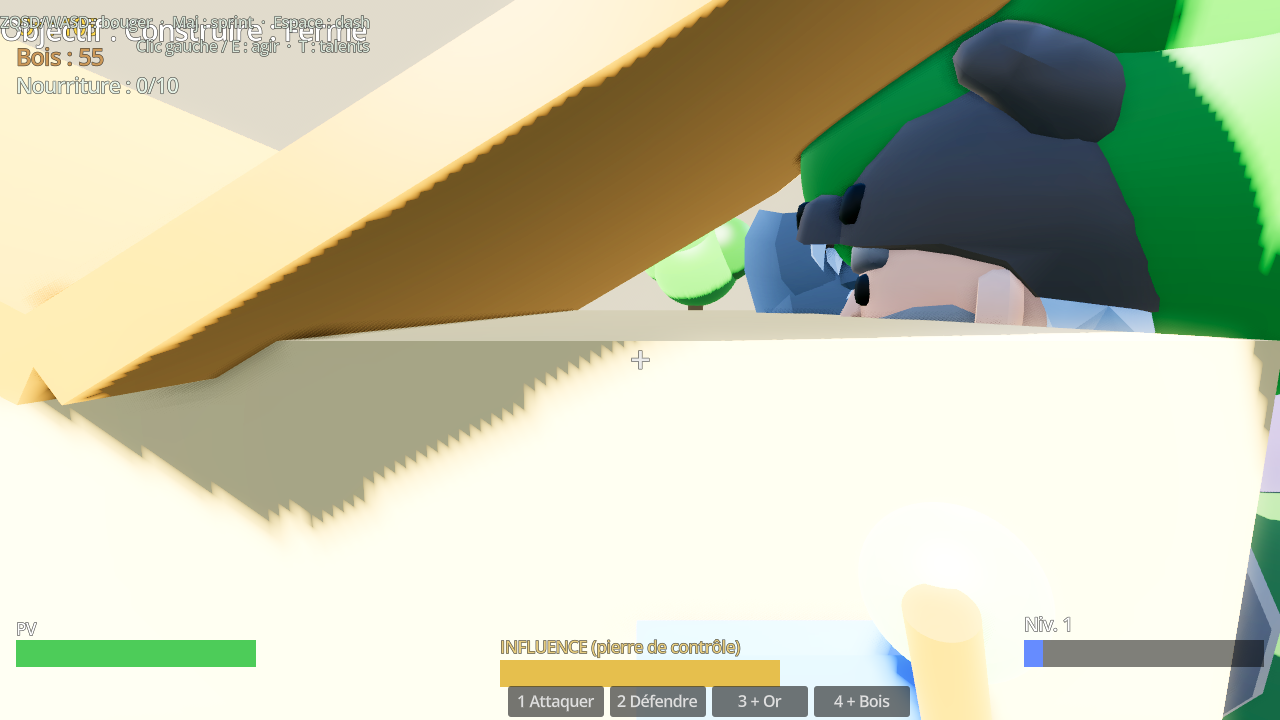
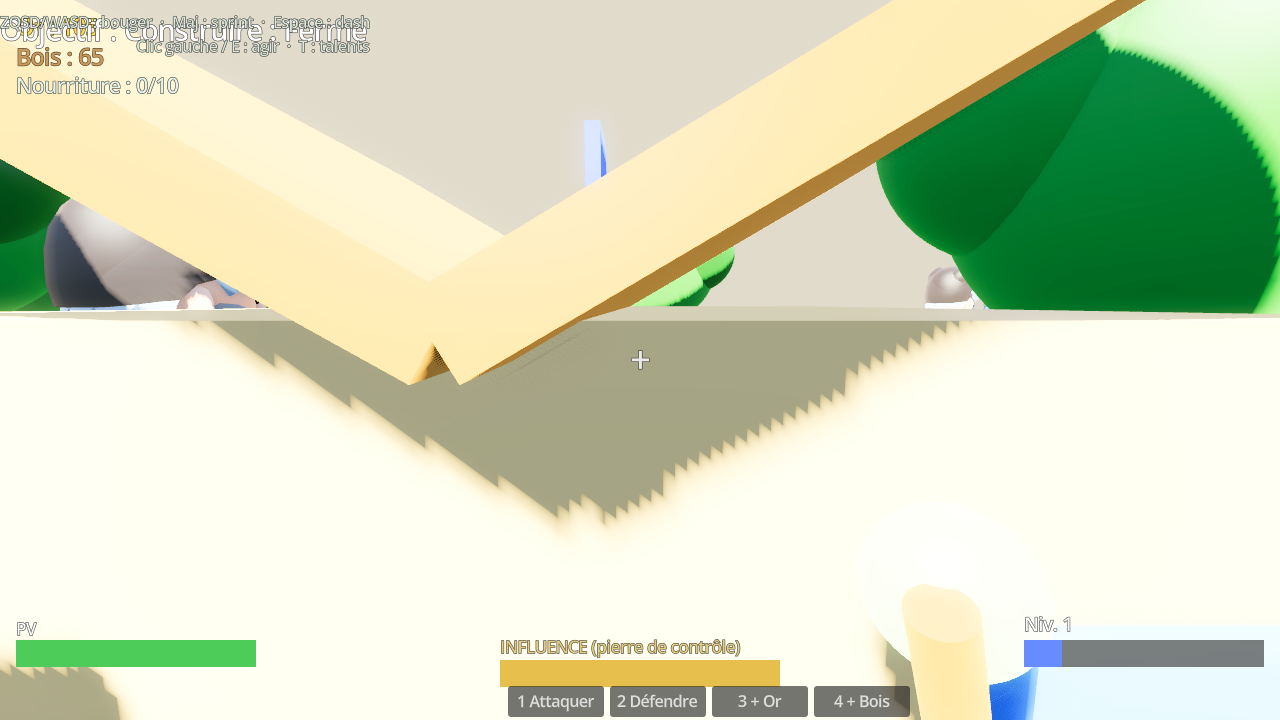
Valide l'orientation des armes et corrige la géométrie des équipements
- `tests/test_weapon_grip.gd` : 15 checks validant la convention de grip KayKit
  (+Z = haut, +Y = avant) sur Knight / Barbarian / Skeleton_Warrior.
- Corrige la pioche du péon (manche vertical + traverse + pic pointu + ciseau).
- Améliore épée alliée (pommeau + garde + lame élargie) et masse ennemie (cône).
- `tests/capture_weapon.gd` : gros plans d'arme en main (sword/pickaxe) pour
  preuve visuelle, dans docs/screenshots/knight_sword.png + barbarian_pickaxe.png.

diff --git a/AGENTS.md b/AGENTS.md
@@ -83,6 +83,9 @@ Le binaire `godot` est dans `~/bin` (export `PATH="$HOME/bin:$PATH"`).
 - Les os KayKit sont nommés (`head`, `handslot.r`, …) → `BoneAttachment3D` pour les
   armes (main) et les marqueurs d'équipe (tête). L'échelle des unités est `1.2`
   (personnage ≈ 1.8u, aligné sur les colliders).
+- **Convention de grip d'arme validée** (`tests/test_weapon_grip.gd`, 15 checks) :
+  l'os `handslot.r` a +Z = monde-haut et +Y = monde-avant → manches verticaux,
+  lames/têtes vers le haut. Les armes (pioche/épée/masse) suivent cette convention.
 - `assets/models/` contient aussi les GLB de référence `CesiumMan.glb` (CC-BY) et
   `Fox.glb` (CC0). Voir `CREDITS.md`.
 
@@ -91,6 +94,8 @@ Le binaire `godot` est dans `~/bin` (export `PATH="$HOME/bin:$PATH"`).
 - `tests/capture_showcase.gd` : capture un GLB animé (env `MODEL`, `ANIM`, `FRAME`,
   `SHOT_OUT`). Lancement : `xvfb-run -a godot --rendering-method gl_compatibility
   --path . --script res://tests/capture_showcase.gd` (nécessite `xvfb` + Mesa GL).
+- `tests/capture_weapon.gd` : capture un gros plan d'une arme en main (env `MODEL`,
+  `WEAPON`=sword|mace|pickaxe, `SHOT_OUT`, `FRAME`) pour valider le grip visuellement.
 - `main.gd` a un hook `PEON_SHOT=<path>` qui capture le jeu (caméra 3ᵉ personne
   orientée vers la base) après 45 frames puis quitte.
 - `tests/test_game_feel.gd` valide le **game feel** : cel-shader appliqué à
